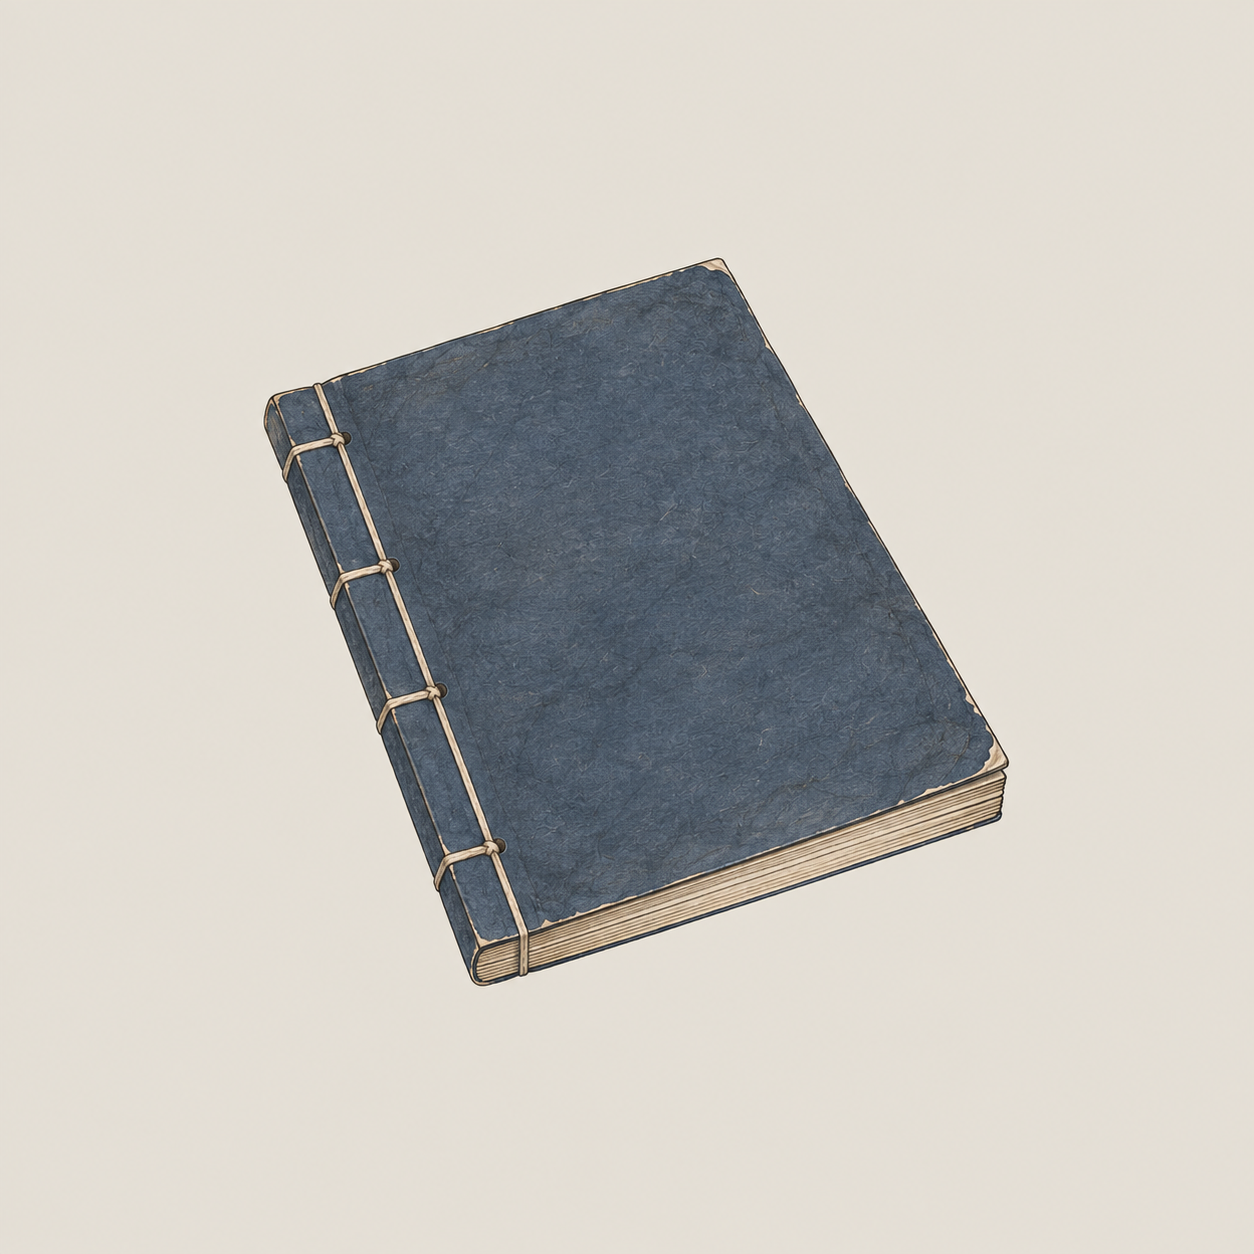
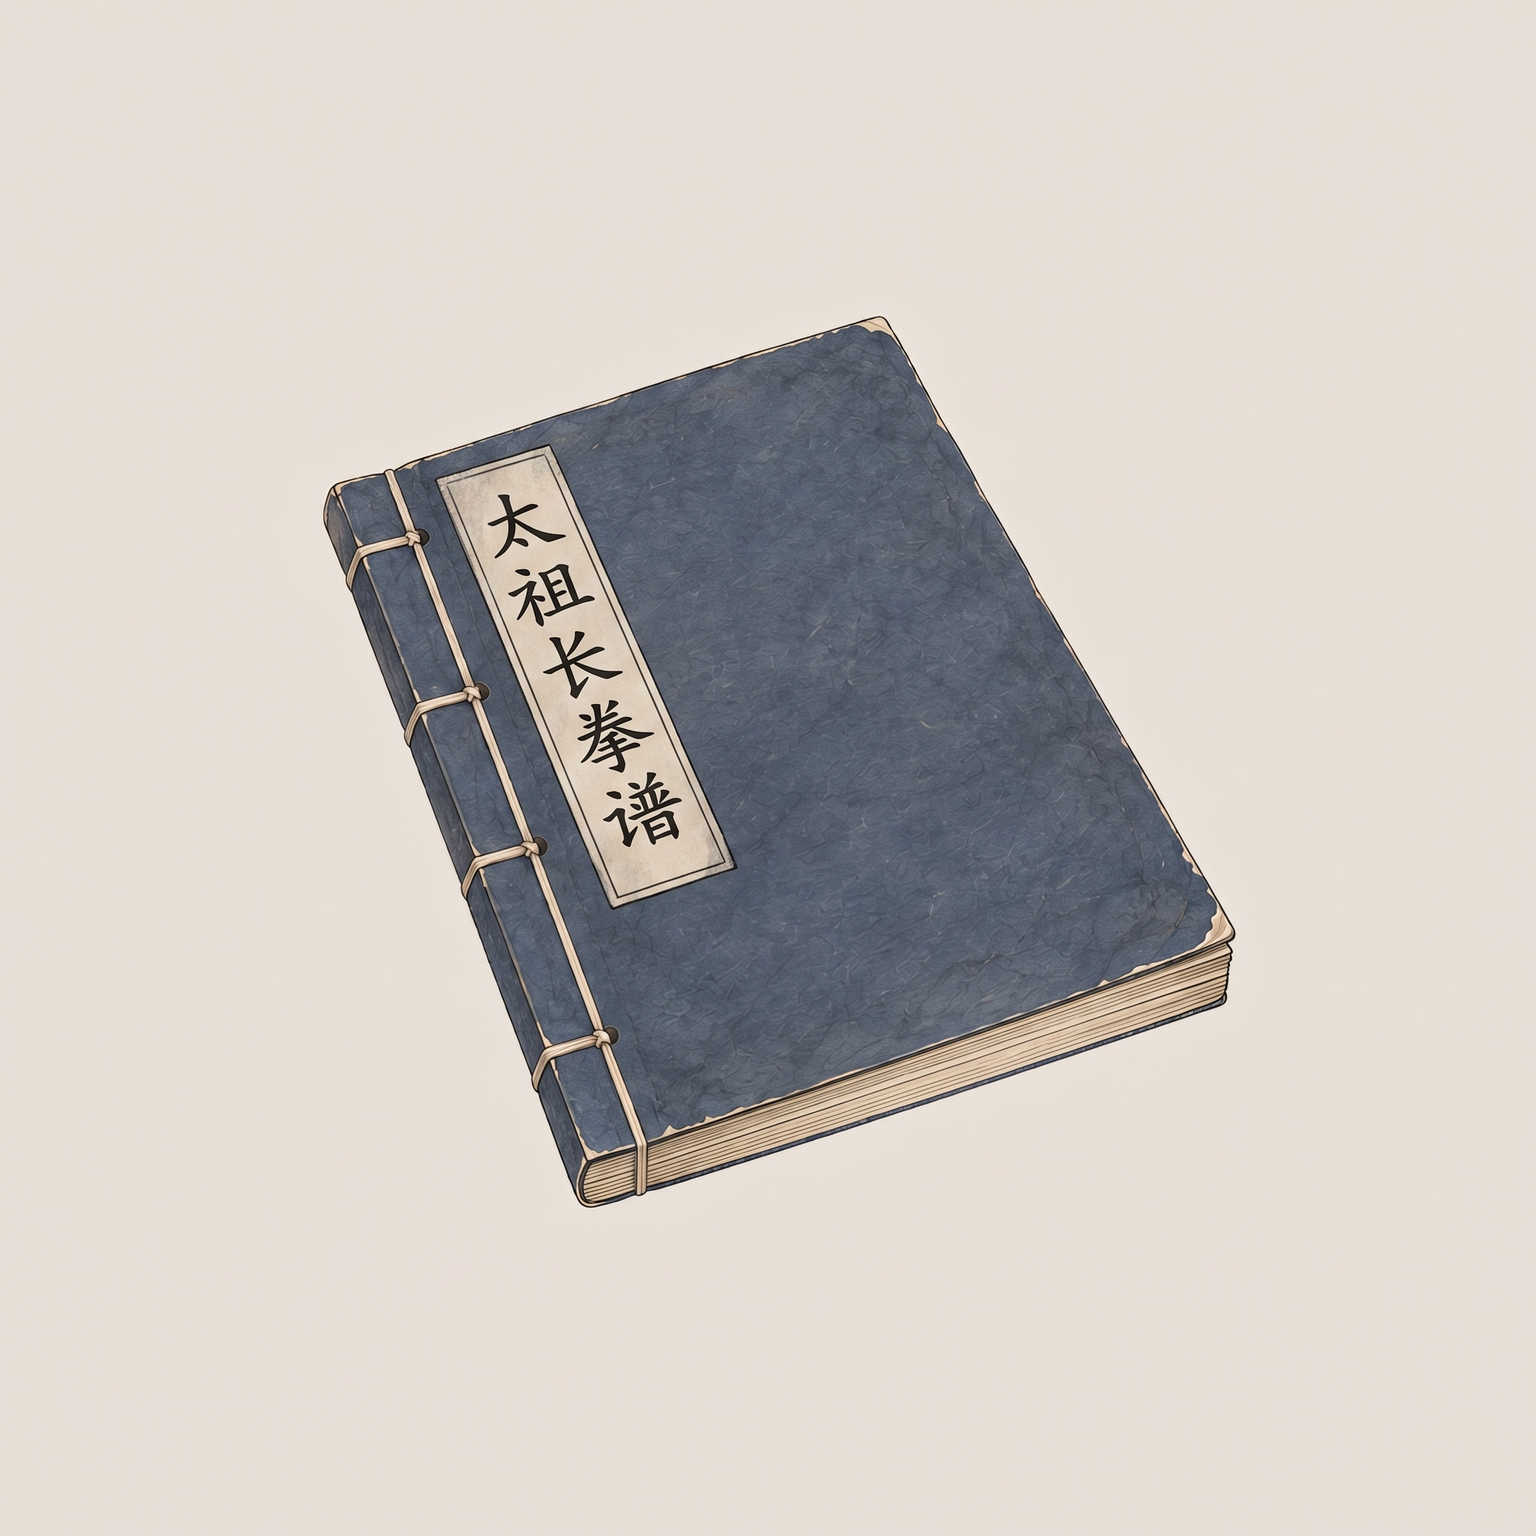
assets(gemini): it_miji_taizuchangquan 太祖长拳谱

diff --git a/assets/default/prompts/INDEX.md b/assets/default/prompts/INDEX.md
@@ -3,7 +3,7 @@
 > 本文件由 `tools/agents/build_image_index.py` 生成，不要手改；改提示词就改各文件，改规程就改各组 `GUIDE.md`，然后重新生成。
 > 人物立绘另见 `characters/INDEX.md`（别的 agent 在出，不在本索引）。建筑套件与贴片已出齐，只列完成度。
 
-提示词 **627** 份：已入库 250、待出图 238、已通过（作者） 139。**待出图队列 238 行**（`python3 tools/agents/build_image_index.py --queue`）。
+提示词 **627** 份：已入库 251、待出图 238、已通过（作者） 138。**待出图队列 238 行**（`python3 tools/agents/build_image_index.py --queue`）。
 
 ## 出图 agent 怎么用
 
@@ -403,7 +403,7 @@
 | 122 | 猪肚 | `it_zhudu` | 黄 | 食材·肉 | 待出图 | [it_zhudu.md](items/food/it_zhudu.md) | template |
 | 123 | 猪肉 | `it_zhurou` | 黄 | 食材·肉 | 待出图 | [it_zhurou.md](items/food/it_zhurou.md) | template |
 
-### 武学秘籍（18）· 已入库 11、已通过（作者） 7
+### 武学秘籍（18）· 已入库 12、已通过（作者） 6
 
 （已全部入库。）
 
